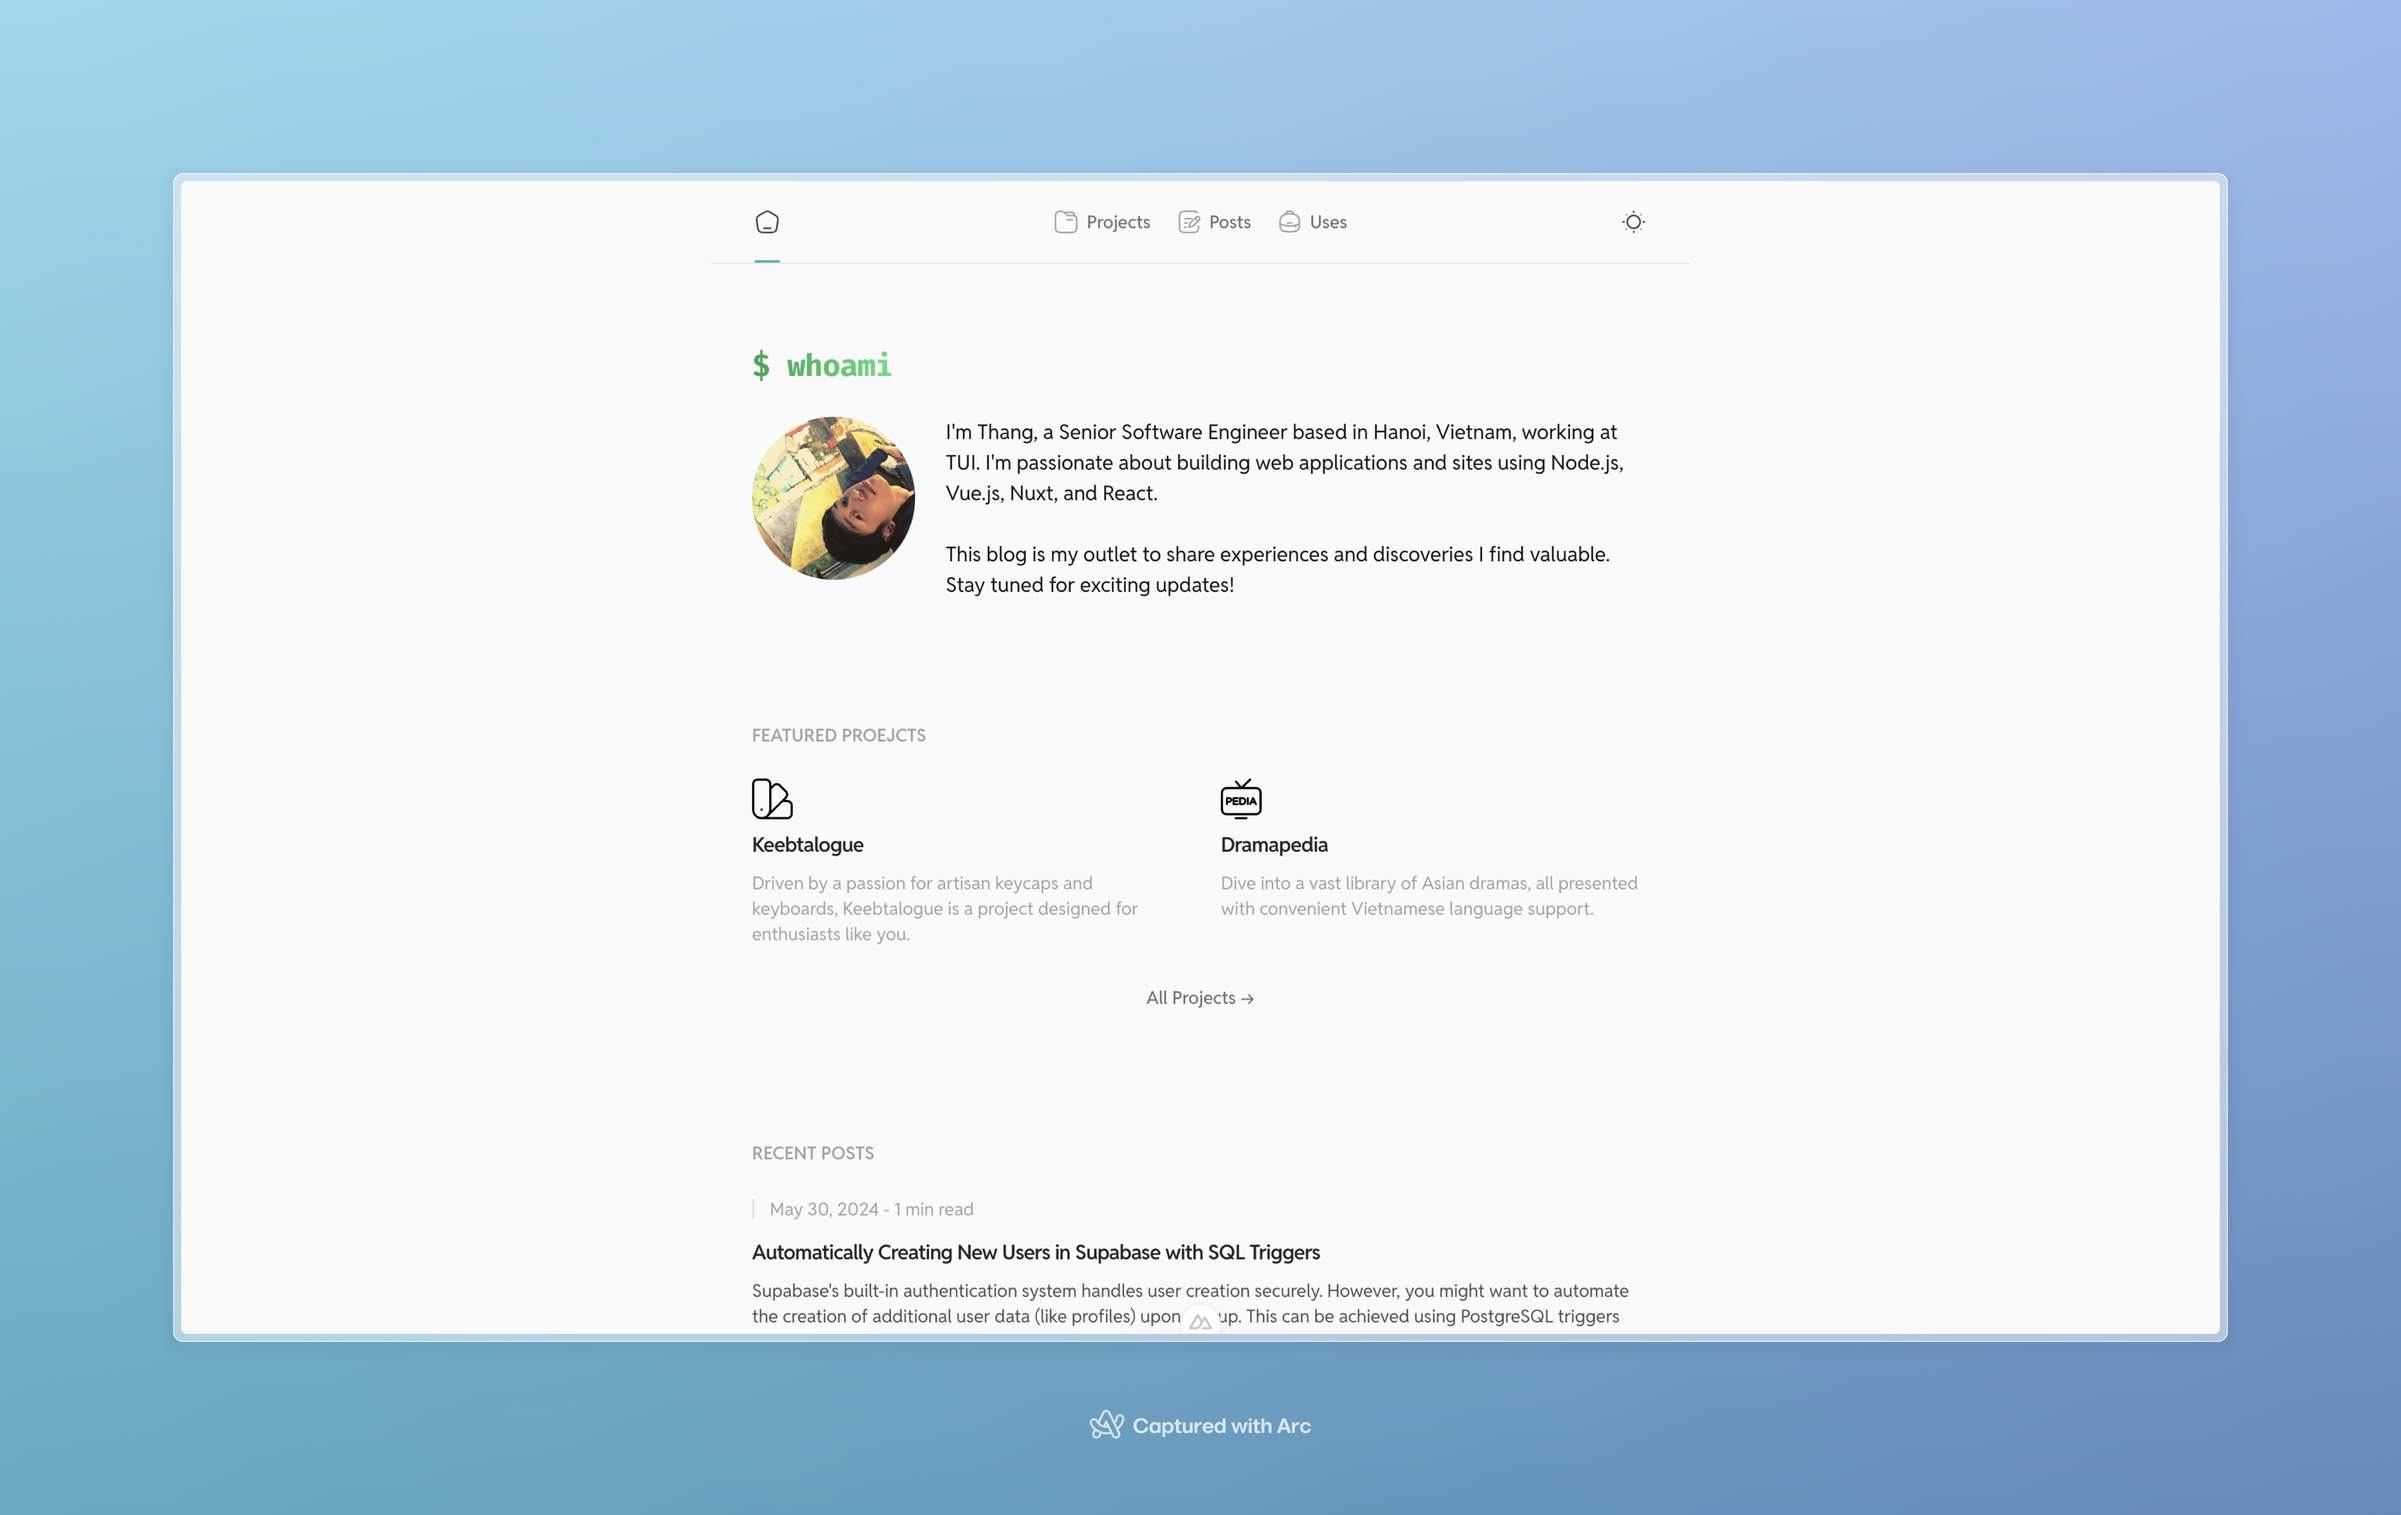
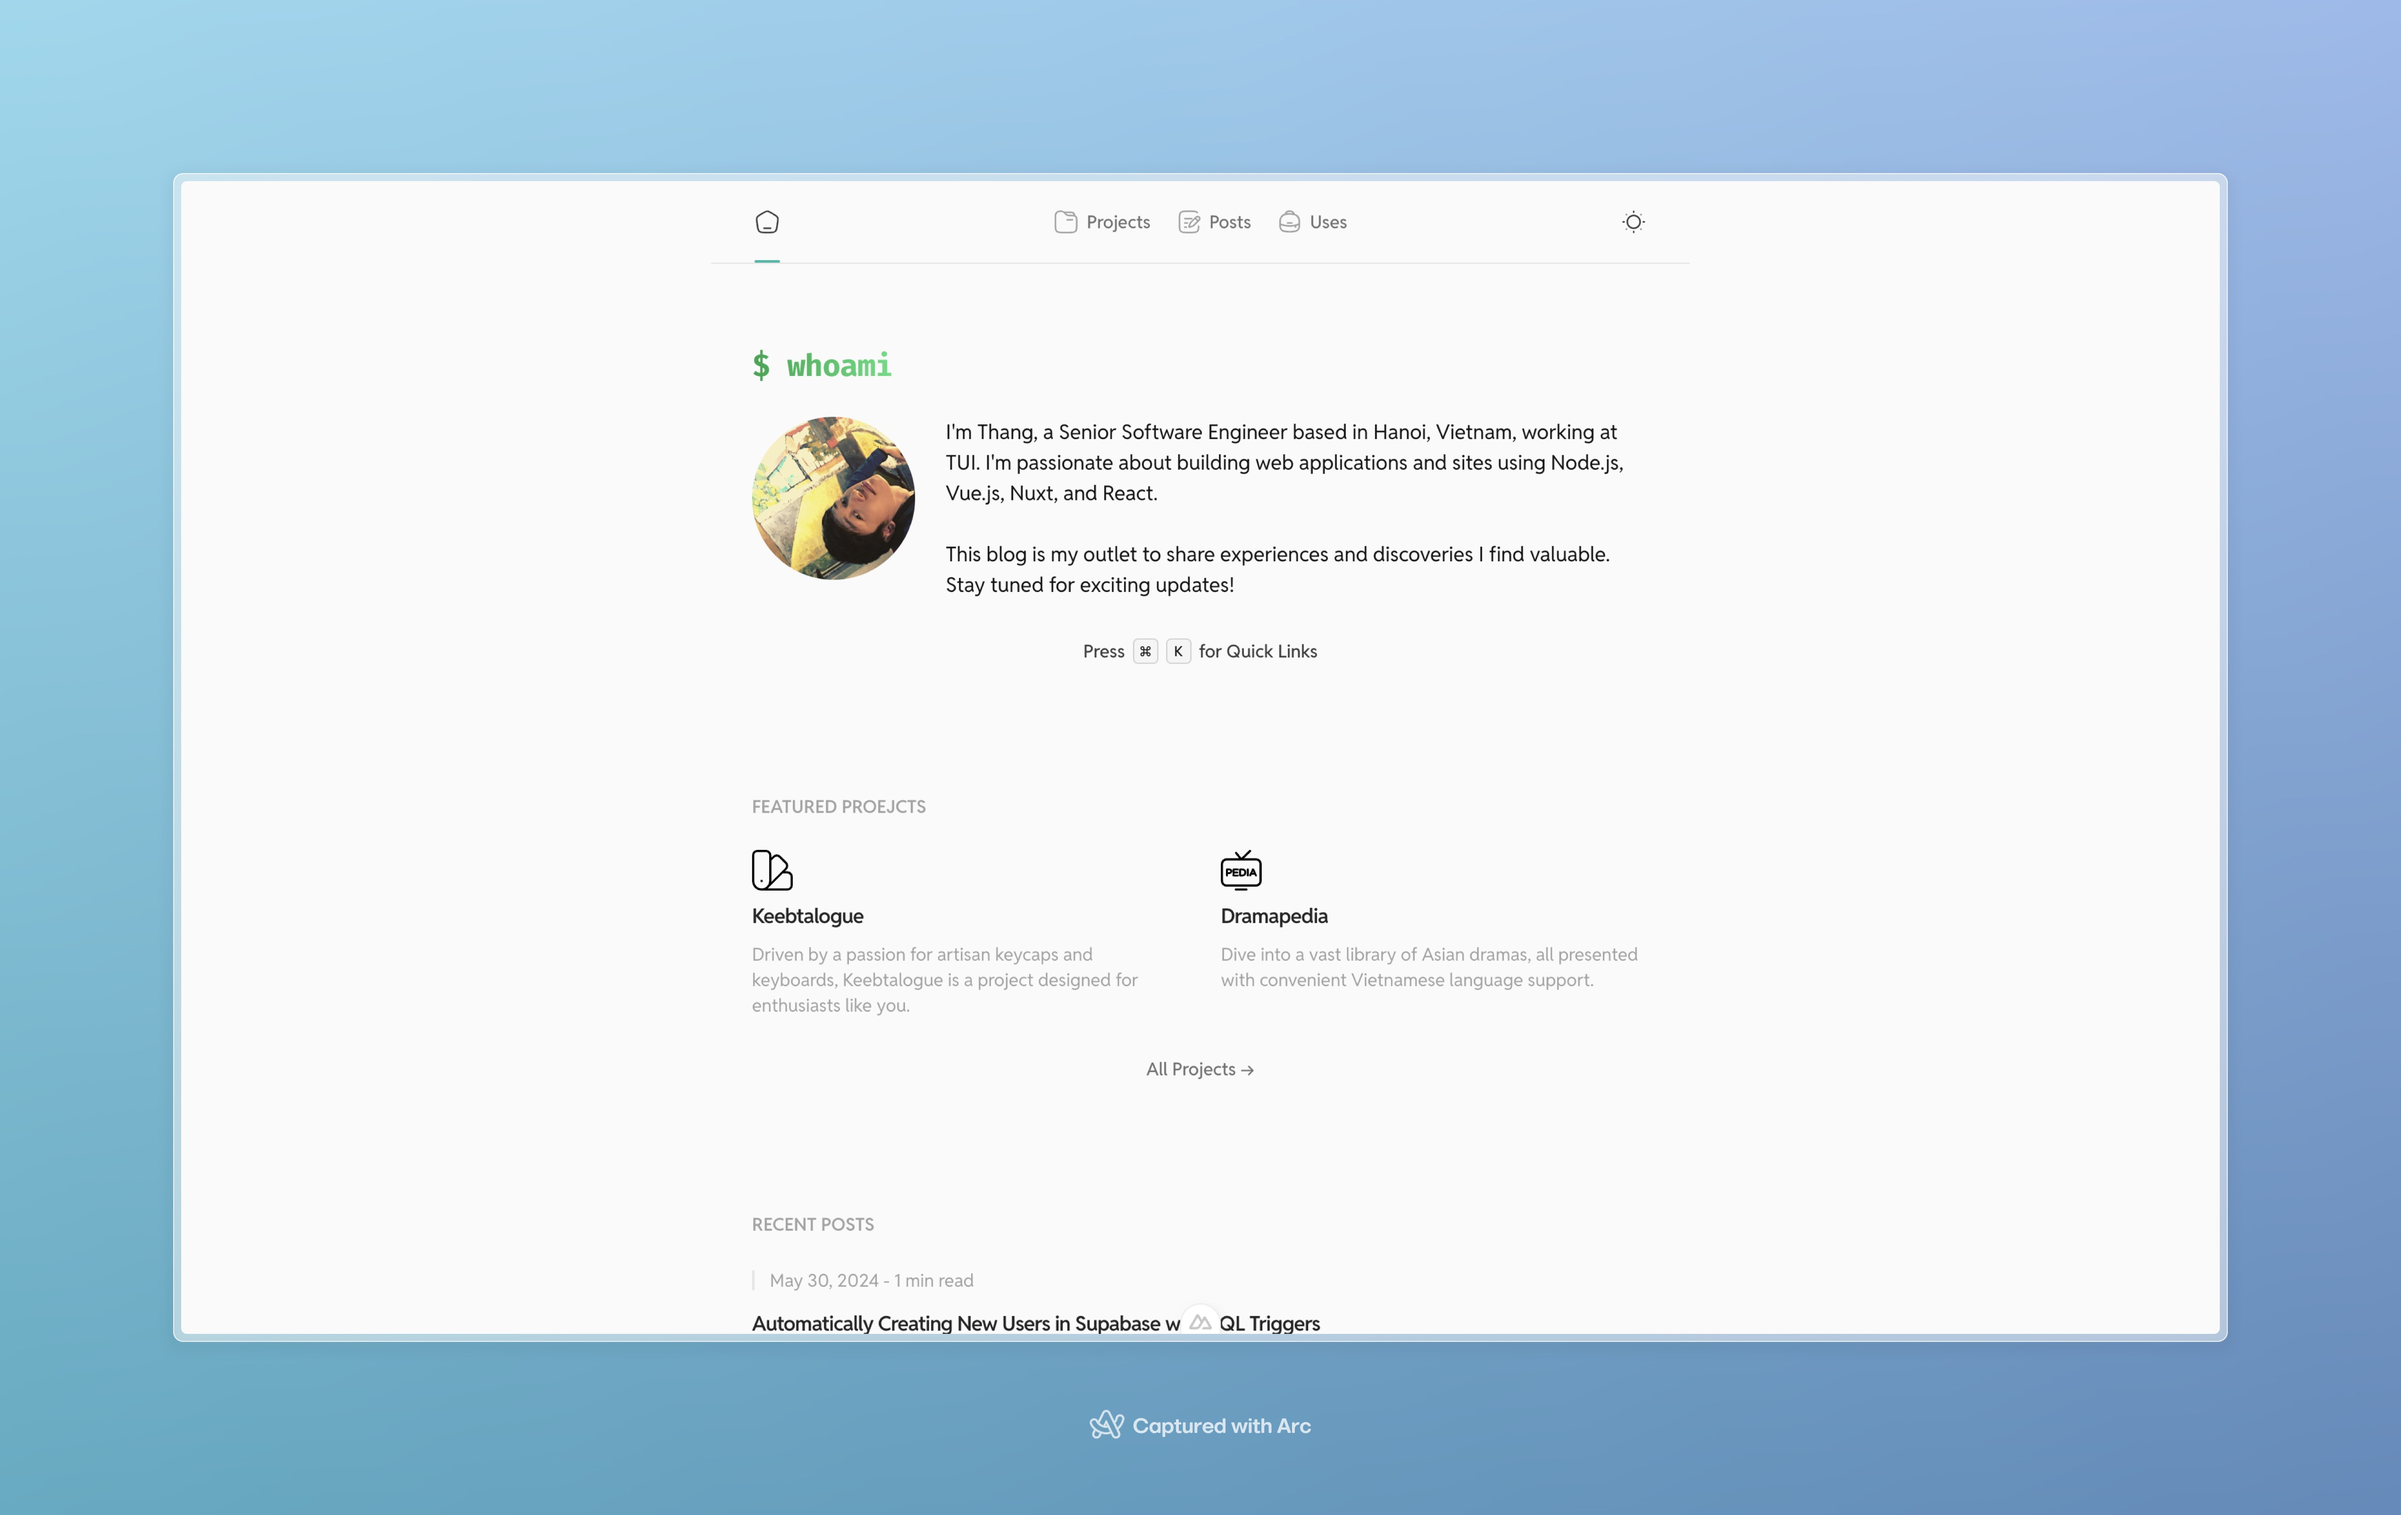
feat: add command pallete for quick access

diff --git a/components/layout/Navbar.vue b/components/layout/Navbar.vue
@@ -10,10 +10,26 @@
       label: 'hidden md:block',
     }"
   />
+
+  <UModal v-model="isOpen">
+    <UCommandPalette
+      :autoselect="false"
+      :groups="groups"
+      icon="i-solar-magnifer-outline"
+      @update:model-value="onCommandClick"
+    />
+  </UModal>
 </template>
 
 <script setup>
 const colorMode = useColorMode()
+const router = useRouter()
+
+const isOpen = useState('open-cmd', () => false)
+
+const toggleCmd = () => {
+  isOpen.value = !isOpen.value
+}
 
 const isDark = computed({
   get() {
@@ -60,4 +76,65 @@ const right = computed(() => [
     },
   },
 ])
+
+// command pallete
+const groups = [
+  {
+    key: 'links',
+    label: 'Go to',
+    commands: middle.map((link) => ({ ...link, id: link.label.toLowerCase() })),
+  },
+  {
+    key: 'theme',
+    label: 'Theme',
+    commands: [
+      {
+        id: 'light',
+        label: 'Light',
+        icon: 'i-solar-sun-line-duotone',
+      },
+      {
+        id: 'dark',
+        label: 'Dark',
+        icon: 'i-solar-moon-stars-bold-duotone',
+      },
+    ],
+  },
+  {
+    key: 'coffee',
+    commands: [
+      {
+        id: 'buymeacoffee',
+        label: 'Buy Me a Coffee',
+        to: 'https://www.buymeacoffee.com/anhthang',
+        icon: 'i-solar-tea-cup-outline',
+      },
+    ],
+  },
+]
+
+const onCommandClick = (command) => {
+  switch (command.group) {
+    case 'links':
+      toggleCmd()
+      router.push(command.to)
+      break
+    case 'theme':
+      colorMode.preference = command.id
+      break
+    case 'coffee':
+      toggleCmd()
+      window.open(command.to)
+      break
+    default:
+      break
+  }
+}
+
+defineShortcuts({
+  meta_k: {
+    usingInput: true,
+    handler: toggleCmd,
+  },
+})
 </script>

diff --git a/components/layout/Footer.vue b/components/layout/Footer.vue
@@ -1,6 +1,6 @@
 <template>
   <UHorizontalNavigation
-    :links="[left, right]"
+    :links="[left, middle, right]"
     class="border-t border-gray-200 dark:border-gray-800"
     :ui="{
       wrapper: 'mx-auto px-2 sm:px-4 lg:px-6 max-w-3xl',
@@ -15,11 +15,12 @@ const config = useRuntimeConfig()
 
 const left = [
   {
-    label: `© ${new Date().getFullYear()} ${config.public.me}`,
+    label: `${new Date().getFullYear()} ${config.public.me}`,
+    icon: 'i-solar-copyright-outline',
   },
 ]
 
-const right = [
+const middle = [
   {
     // name: 'GitHub',
     to: 'https://github.com/anhthang',
@@ -48,10 +49,13 @@ const right = [
     icon: 'i-iconoir-mastodon',
     iconClass: 'group-hover:text-[#6364FF] dark:group-hover:text-[#6364FF]',
   },
+]
+
+const right = [
   {
-    // name: 'Buy Me A Coffee',
+    label: 'Buy Me a Coffee',
     to: 'https://www.buymeacoffee.com/anhthang',
-    icon: 'i-iconoir-coffee-cup',
+    icon: 'i-solar-tea-cup-outline',
     iconClass:
       'text-[#BD5FFF] dark:text-[#FFDD00] group-hover:text-[#BD5FFF] dark:group-hover:text-[#FFDD00]',
   },

diff --git a/components/AboutMe.vue b/components/AboutMe.vue
@@ -17,11 +17,28 @@
       This blog is my outlet to share experiences and discoveries I find
       valuable. Stay tuned for exciting updates!
     </p>
+
+    <div class="flex items-center justify-center mt-6 text-sm">
+      <UButton
+        color="gray"
+        variant="ghost"
+        class="hover:bg-gray-100"
+        @click="() => (isOpen = true)"
+      >
+        Press
+        <UKbd>{{ metaSymbol }}</UKbd>
+        <UKbd>K</UKbd>
+        for Quick Links
+      </UButton>
+    </div>
   </div>
 </template>
 
 <script setup>
 const config = useRuntimeConfig()
+const { metaSymbol } = useShortcuts()
+
+const isOpen = useState('open-cmd')
 
 useSeoMeta({
   description: config.public.about,

diff --git a/pages/projects.vue b/pages/projects.vue
@@ -23,7 +23,7 @@
 
 <script setup>
 const description =
-  "While I may not have a vast portfolio, I'm particularly proud of the projects I've chosen to focus on. Some of these are even open-source, and I'd welcome your contributions to help them grow further!"
+  "Though my portfolio is small, I'm passionate about the projects I chose. Some are even open-source - feel free to contribute!"
 
 useSeoMeta({
   title: 'Projects',
